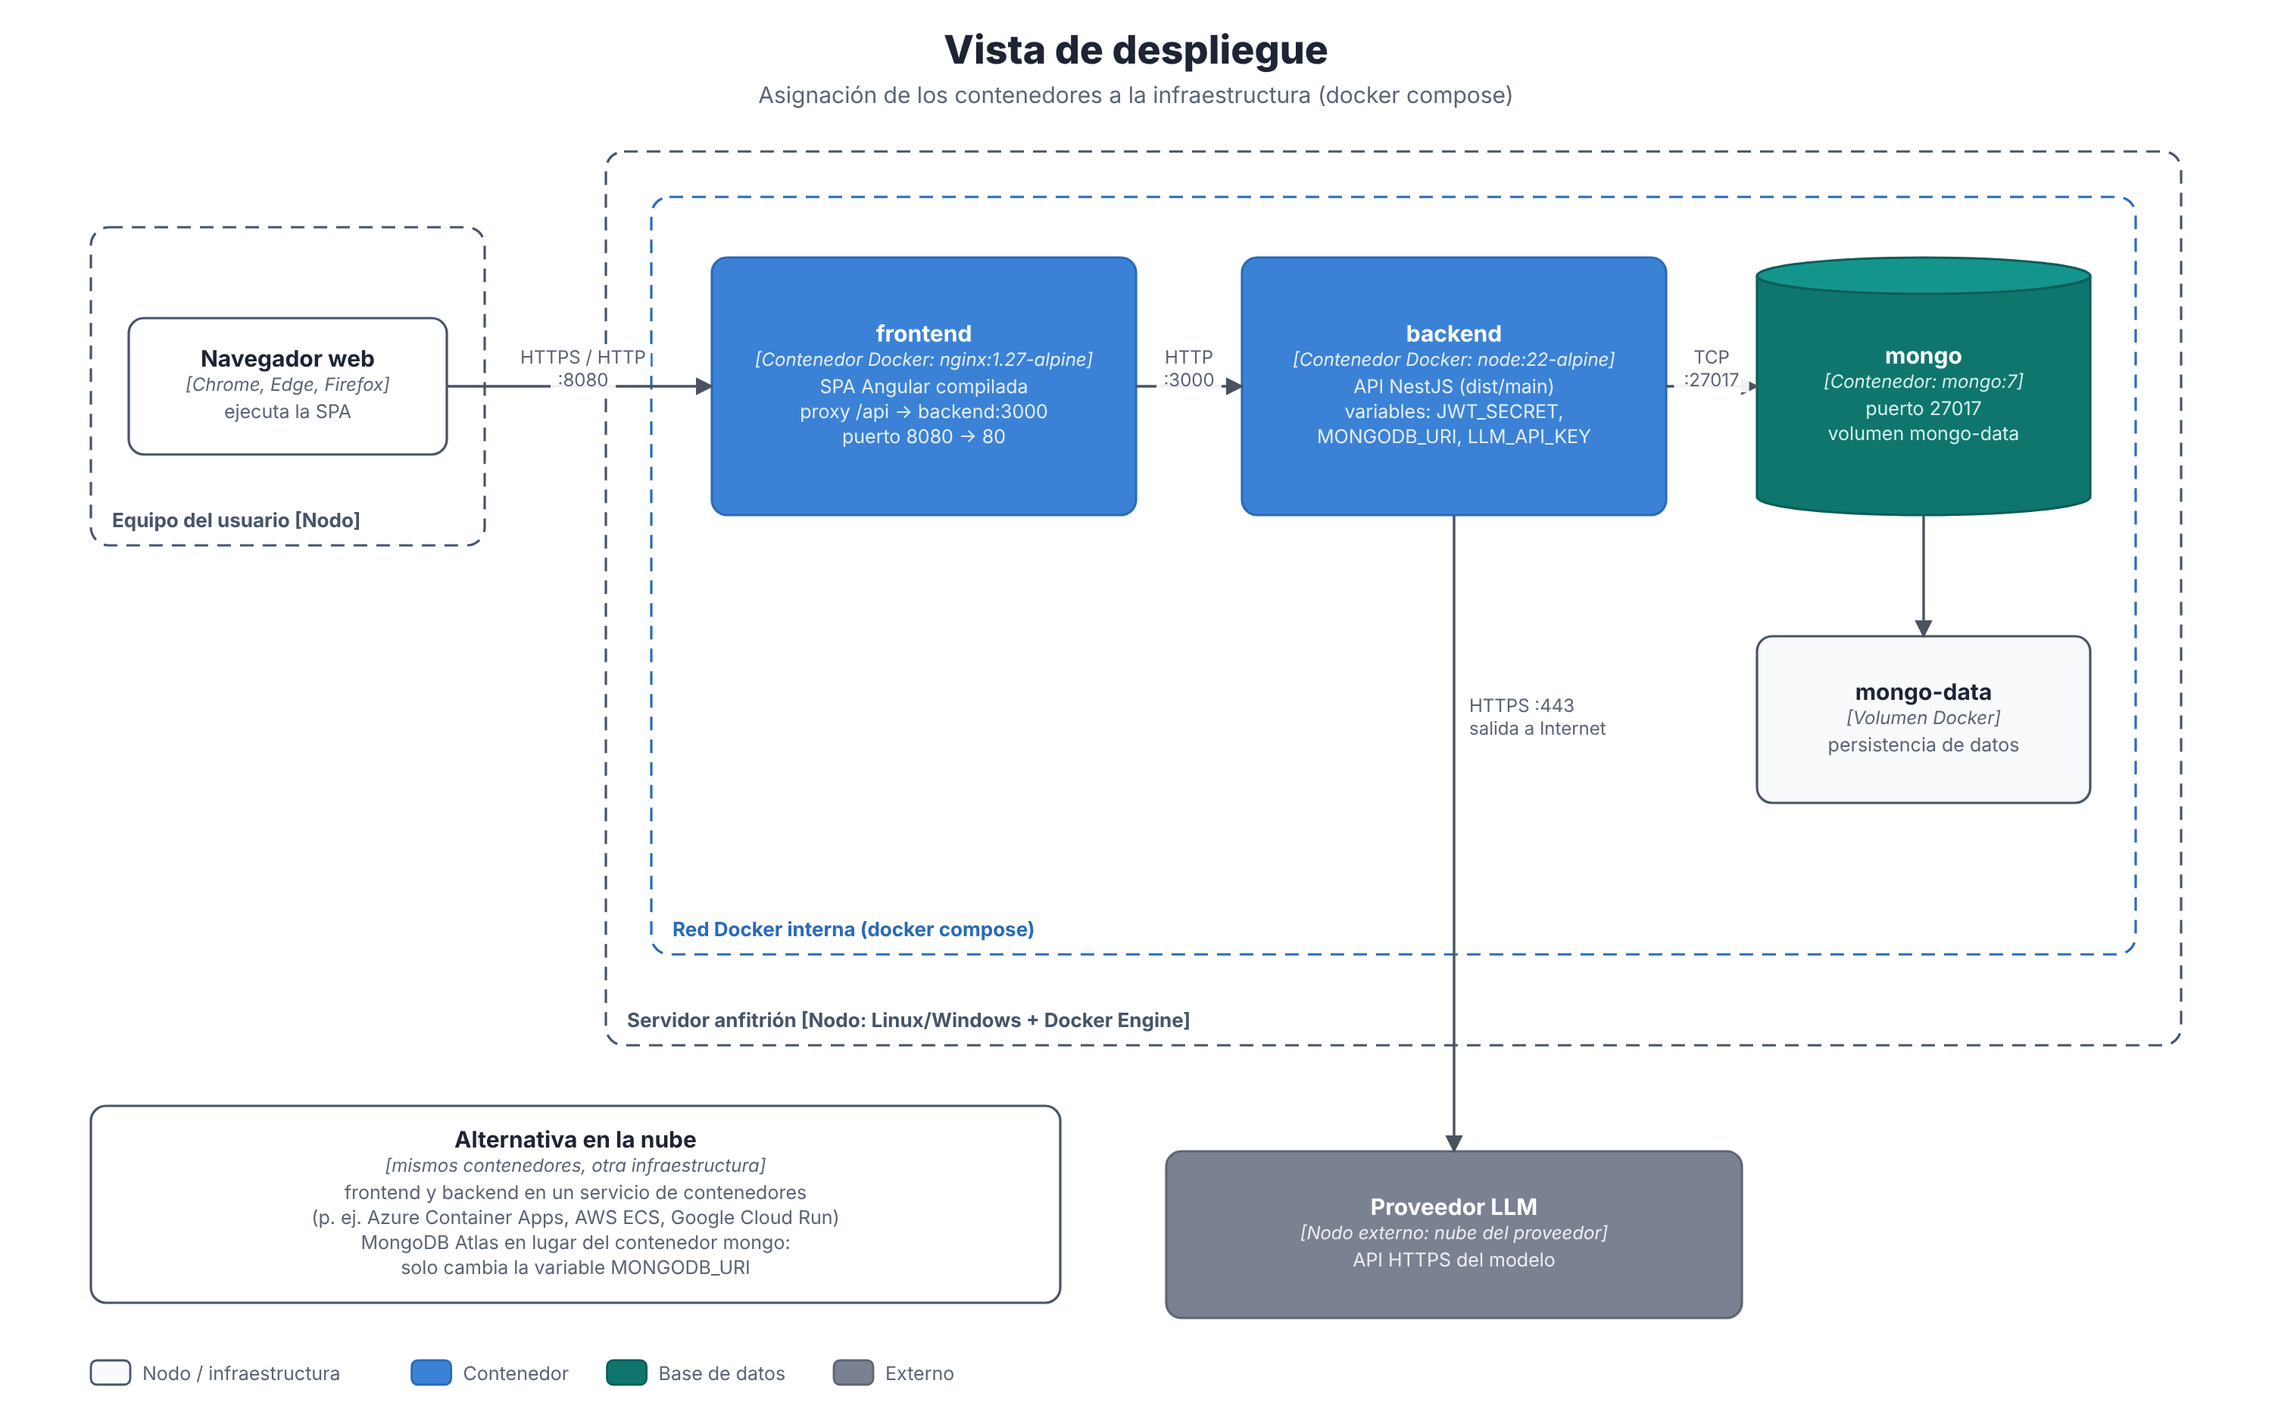
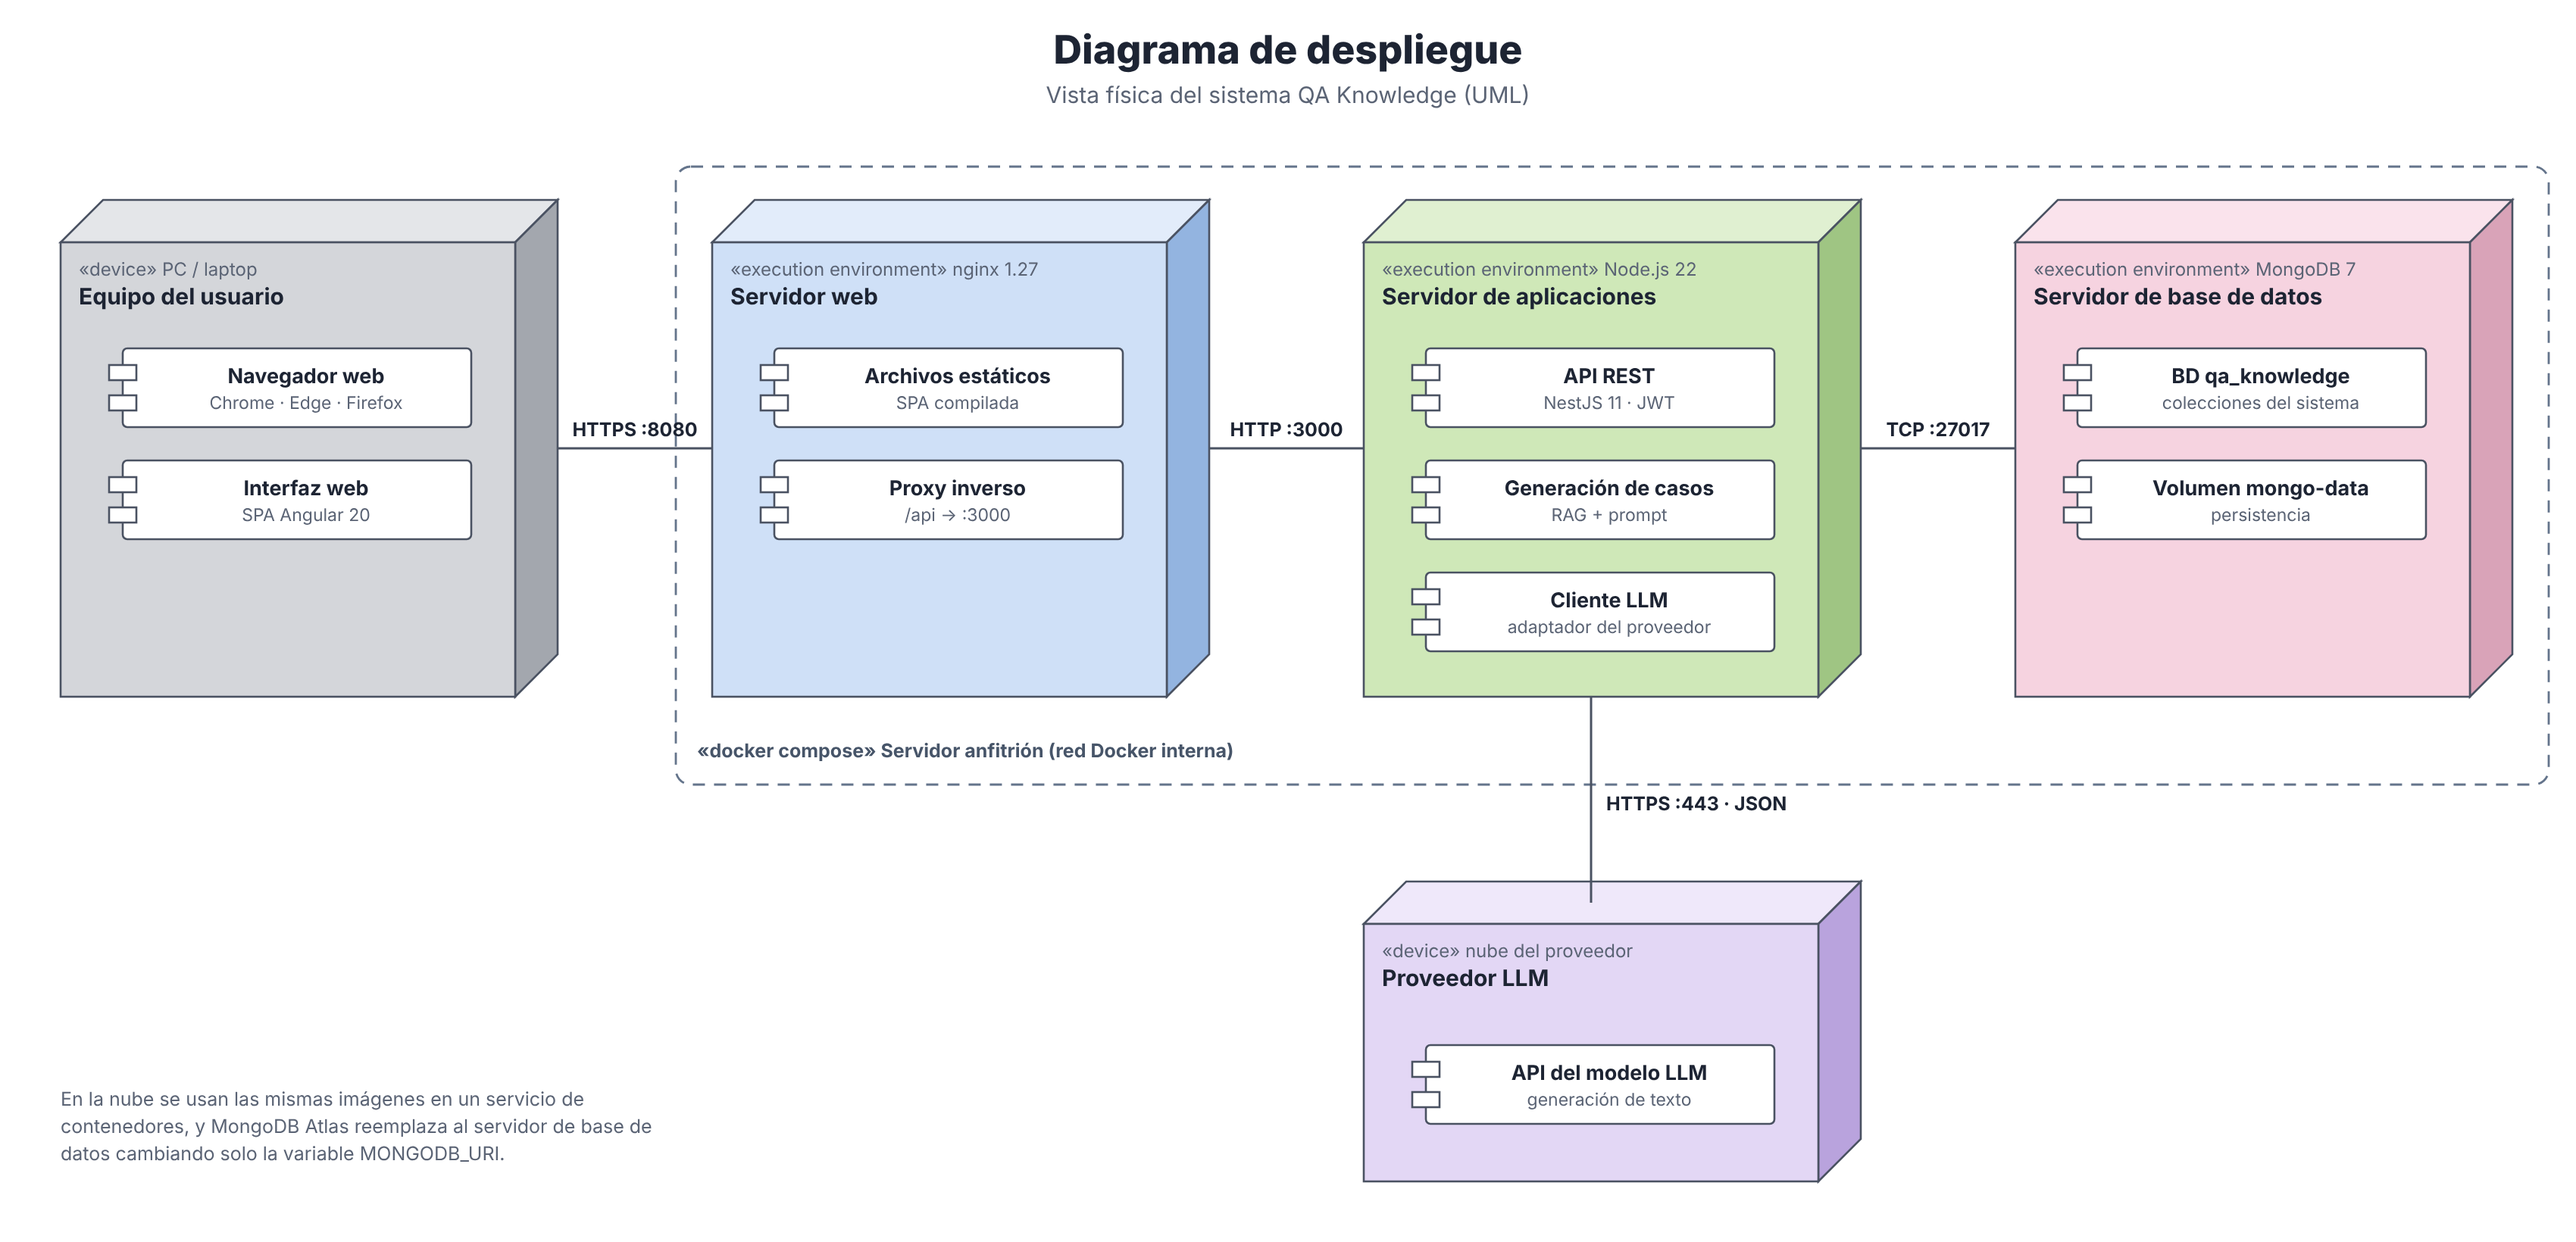
Diagrama de despliegue en notación UML (nodos 3D y componentes)
Claude-Session: https://claude.ai/code/session_017cdL5eLtRdD6eBNrnasQw3

diff --git a/docs/arquitectura-tecnica.md b/docs/arquitectura-tecnica.md
@@ -343,7 +343,12 @@ salida (paso 12) y trazabilidad (pasos 13 y 19).
 
 ![Vista de despliegue](figuras/vista-despliegue.png)
 
-*Figura 3.x. Vista de despliegue con Docker (local) y alternativa en la nube.*
+*Figura 3.x. Diagrama de despliegue UML: nodos (equipos y entornos de ejecución) con los componentes que alojan y los protocolos de comunicación.*
+
+El diagrama sigue la notación UML de despliegue: cada **nodo** (cubo) es un equipo («device») o un entorno de
+ejecución («execution environment»); dentro de cada nodo están los **componentes** que se ejecutan en él, y las
+líneas entre nodos son las **rutas de comunicación** con su protocolo y puerto. Los servidores web, de aplicaciones y
+de base de datos corren como contenedores Docker en el mismo servidor anfitrión (docker compose).
 
 | Nodo / contenedor | Imagen | Puerto | Configuración |
 |---|---|---|---|
@@ -400,7 +405,7 @@ Proyecto-UPC/
 | Lógica | Usuarios finales, analistas | B.1 Descomposición, B.3 Modelo de datos, C4 nivel 3 |
 | De procesos | Integradores, desarrolladores | B.5 Contenedores, B.6 Componentes, B.7 Vista dinámica |
 | De desarrollo | Programadores | B.2 Capas, B.9 Implementación |
-| Física | Administradores de TI | B.8 Despliegue |
+| Física | Administradores de TI | B.8 Diagrama de despliegue (UML) |
 | Escenarios (+1) | Todos | B.7 Escenario de generación y aprobación; escenarios de calidad ESC-01 a ESC-10 |
 
 #### C.3 Trazabilidad entre atributos de calidad y elementos de la arquitectura
